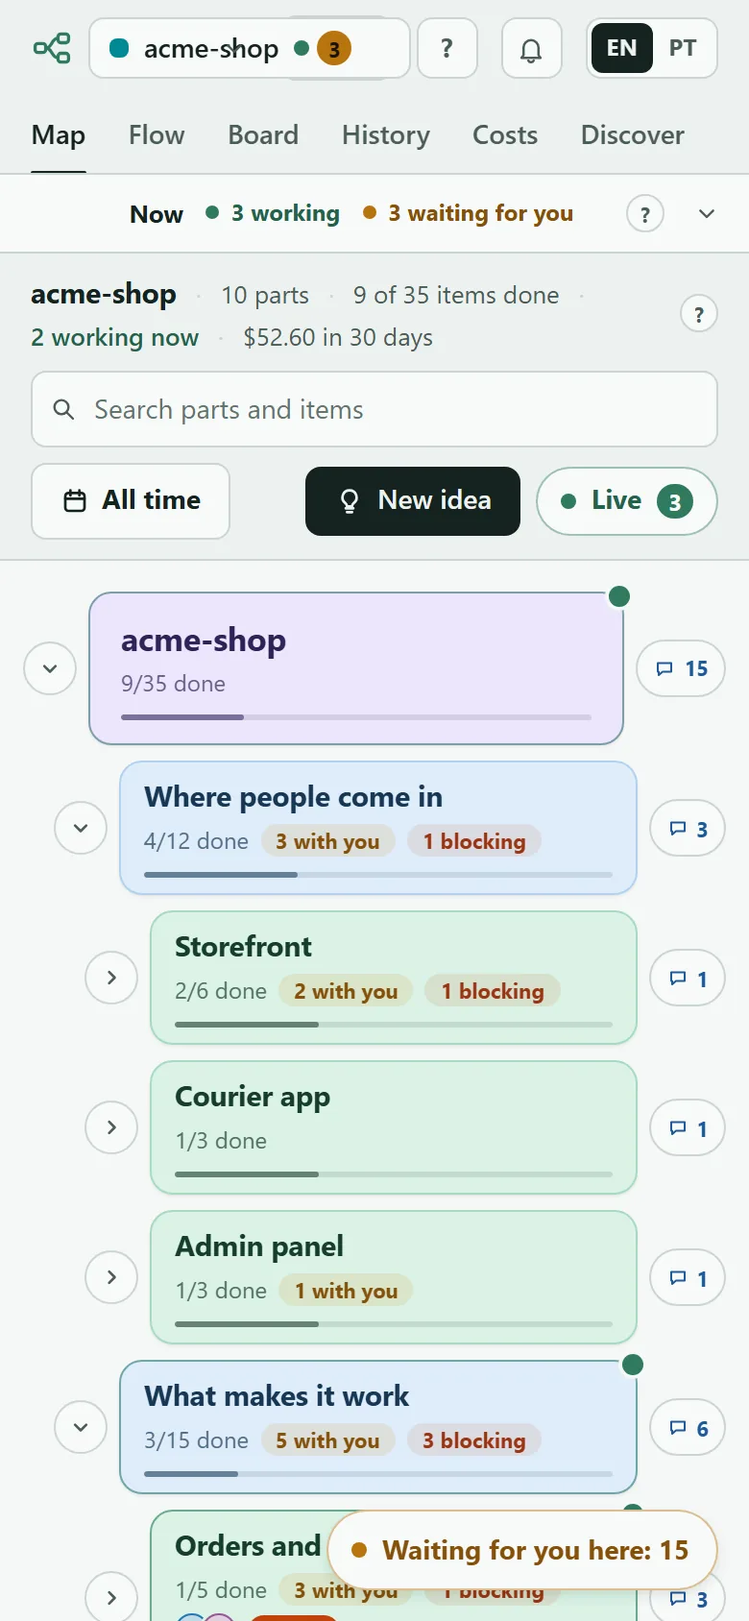
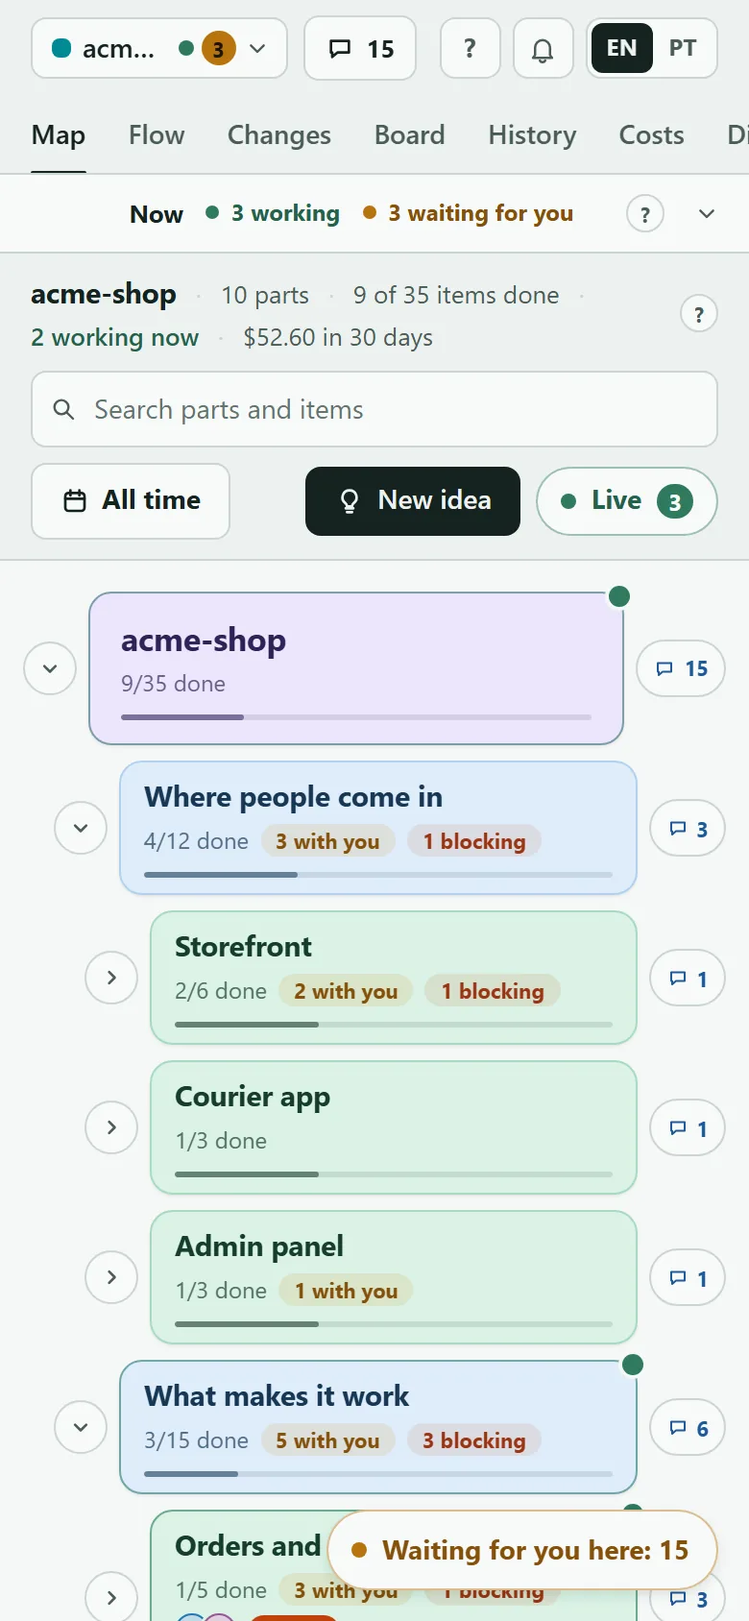
chore(release): v0.2.3
- Version 0.2.3 in package.json, plugin.json and the CHANGELOG, whose
  0.2.3 section tells in plain words what changed since 0.2.2: alerts
  across every session, conversations by project, the Now strip, the
  Claude Code-like conversation view, the fluid Flow, readable relations,
  one period for every list, signs that explain themselves, the welcome
  tour and plain words, the real footprint, the Changes tab and teams of
  helpers you can follow.
- READMEs (en, pt-BR): the Changes tab and the Flow export formats; the
  screenshots regenerated from --demo on the released screens.
- docs/architecture: items done on main now read "released in v0.2.3".

diff --git a/docs/architecture/mind-map-page.md b/docs/architecture/mind-map-page.md
@@ -70,7 +70,7 @@ Plain ES modules and a vendored `d3` for zoom and drag, no build step. Clicking 
   - Each project as a card with its colour band and name, in "This project" too; the project badge never cut off, or left out inside the project's own card, where it only repeats.
   - How to confirm it is done: screenshots at 1440 px and on a phone, in both themes: every row shows its state in a word, no text is cut off, a group title stays on top while its rows scroll, a finished conversation not yet opened stands out; a test fails if a row has no state word.
   - Done so far (2026-10-09 real-data check): the project badge keeps its size on every row and Now card (only a very long name ends in "…"), and a chat the page started reads "Map" even when the page's own record of it is gone (it said "Automation").
-  - Done on main: every row carries a state chip in colour and word (Working, Waiting for you, Finished, Closed, and "Finished, not seen yet", whose row stays highlighted until it is opened), the origin badge with icon and word, its place on the map on a line of its own and time and cost on the right; each project is a card with its colour band and name, in "This project" too, and its rows no longer repeat the project; the groups are titled sections with their own icon, colour and count, extra space between them, and a title that stays under the card's title while its rows scroll. On a computer the conversation sheet sits on the stage itself and takes its whole height beside the map tools. Checked on screenshots at 1440 px and on a phone, light and dark; `test/web-convlist.test.mjs` fails if a row has no state word.
+  - Released in v0.2.3: every row carries a state chip in colour and word (Working, Waiting for you, Finished, Closed, and "Finished, not seen yet", whose row stays highlighted until it is opened), the origin badge with icon and word, its place on the map on a line of its own and time and cost on the right; each project is a card with its colour band and name, in "This project" too, and its rows no longer repeat the project; the groups are titled sections with their own icon, colour and count, extra space between them, and a title that stays under the card's title while its rows scroll. On a computer the conversation sheet sits on the stage itself and takes its whole height beside the map tools. Checked on screenshots at 1440 px and on a phone, light and dark; `test/web-convlist.test.mjs` fails if a row has no state word.
 - [x] **Claude:** Global fixed "Now" strip across all projects `mm09`
   - Always visible on every tab, never filtered by the chosen project: switching project, tab or scrolling does not change it. Test: its content is the same whichever project is selected.
   - One card per running job in any repository: where (project › part › item), live last step, how long, model and helpers (n/total). Waiting for you comes first, in amber.
@@ -112,19 +112,19 @@ Plain ES modules and a vendored `d3` for zoom and drag, no build step. Clicking 
   - From each conversation's edited and mentioned files, plus the edits of its helpers and workflows, find every project and part it really touches (by the parts' paths): it shows in each project it touches ("born in A · working in B"), and its parts light in proportion to the files edited there.
   - Live lights the part of the file in the latest step; before work starts, the orchestration says "will touch: A, B, C". A middle level of components sits between a part and its items (level 2 of `fl09`, also on the mind map), and an item that spans parts shows in each, linked. Refined later with the census (`fd01`).
   - How to confirm it is done: a chat opened in project A that edits files of project B is listed in both with "born in A · working in B"; the parts it edited light with a share matching the files edited; Live lights the part of the file named in its last step.
-  - Done on main: the project of each edited file is the git repository it lives in (a worktree counts as its main checkout), the part is the one owning the file on that map; libraries, generated files, binaries and the Claude folder never count; a project only edited shows up though no conversation started there. The conversation stays listed (with its cost) at home and shows elsewhere under "Also working here"; its parts there carry a "This conversation · 40%" chip while it is open; a step outside its folder shows only its last folders. "Will touch", the middle level and items spanning parts moved to `mm34`.
+  - Released in v0.2.3: the project of each edited file is the git repository it lives in (a worktree counts as its main checkout), the part is the one owning the file on that map; libraries, generated files, binaries and the Claude folder never count; a project only edited shows up though no conversation started there. The conversation stays listed (with its cost) at home and shows elsewhere under "Also working here"; its parts there carry a "This conversation · 40%" chip while it is open; a step outside its folder shows only its last folders. "Will touch", the middle level and items spanning parts moved to `mm34`.
 - [x] **Claude:** Files, lines and share of the program in every box `mm25`
   - Each box shows its files, lines and % of the program, summed on the levels above; a Files panel per box lists them by folder (lines per file), split by kind (screens, server, tests, docs) and what changed in the period; the root shows "N files with no box on the map" in a strong color.
   - Base: files assigned to parts by their paths over `git ls-files`, counted by session-map itself; exact numbers from the census (`fd01`).
   - How to confirm it is done: the root's count equals the number of tracked files minus the ones left out on purpose; every layer equals the sum of its parts; the "no box" number equals the census list of files without an owner.
-  - Done on main: `server/sources/count.mjs` counts every tracked file line by line (no dependency, recounted at most every 30 s and only the files that changed) and `server/arch/sizes.mjs` gives each file one owner (the deepest path; the first part on a tie). The project panel lists the files with no box and what was left out, by reason; a part's Files tab shows lines per file and the split by kind. What changed in the period inside the Files tab moved to `mm34`; the census (`fd01`) refines the numbers.
+  - Released in v0.2.3: `server/sources/count.mjs` counts every tracked file line by line (no dependency, recounted at most every 30 s and only the files that changed) and `server/arch/sizes.mjs` gives each file one owner (the deepest path; the first part on a tie). The project panel lists the files with no box and what was left out, by reason; a part's Files tab shows lines per file and the split by kind. What changed in the period inside the Files tab moved to `mm34`; the census (`fd01`) refines the numbers.
 - [ ] **important:** The rest of the real footprint `mm34`
   - What is left of `mm24` and `mm25`: before work starts, the orchestration says "will touch: A, B, C"; a middle level of components between a part and its items (level 2 of `fl09`, also on the mind map); an item that spans parts shows in each, linked; the Files tab of a box marks what changed in the period; on a phone the open conversation covers the map, so its "This conversation · %" chips cannot be seen (show the share in the conversation's Details or on the outline before it opens).
   - How to confirm it is done: an orchestration plan lights the parts it names before the first edit; a part opens into its components with the files of each; an item whose files sit in two parts shows in both with a link; the Files tab with "last 7 days" picked marks the files changed in that week.
 - [x] **Claude:** Walk through the files of a box `mm26`
   - A file tree per box like VS Code's explorer; code colored, with line numbers and search in the file; jump to the files it uses and the files that use it (import graph); Open in VS Code at the line.
   - How to confirm it is done: open a part, expand its tree, open a file: line numbers and colors show; search finds a word; "used by" lists the files that import it; Open in VS Code lands on that line.
-  - Done on main: the Files tab of a box is a folder tree like the editor's explorer (folders first, single-folder chains on one line, open folders kept while the page lives); a file opens with the code in colors (our own small reader, no dependency), line numbers, search in the file with next and previous, the files it uses and that use it with the line of each (`server/imports.mjs` reads the import lines of JavaScript, TypeScript, CSS and HTML over the saved files) and the libraries it asks for; a click on a line picks it for Open in VS Code. Other languages, new files not yet saved and very long files go on in `mm36`.
+  - Released in v0.2.3: the Files tab of a box is a folder tree like the editor's explorer (folders first, single-folder chains on one line, open folders kept while the page lives); a file opens with the code in colors (our own small reader, no dependency), line numbers, search in the file with next and previous, the files it uses and that use it with the line of each (`server/imports.mjs` reads the import lines of JavaScript, TypeScript, CSS and HTML over the saved files) and the libraries it asks for; a click on a line picks it for Open in VS Code. Other languages, new files not yet saved and very long files go on in `mm36`.
 - [ ] **important:** The rest of the Changes tab `mm35`
   - What is left of `mm30`: an edit made by a command the conversation ran (a script, a formatter, `sed`) reads "outside the conversations": tie it to the conversation whose step ran just before the folder changed; the release is looked up for the newest 60 saved changes of a project (older ones read "Saved"); a click on a box's "+N files" chip opens the Changes tab filtered to that part; a file changed and removed before any pass of the server saw its last version (the server was off, or it all happened within seconds) says its previous content was not kept: rebuild it by replaying the conversation's edit steps after the one that wrote it.
   - How to confirm it is done: a conversation that runs a formatter shows those files under its name; a file a conversation wrote, edited and removed while the server was off shows the content it had after the last edit; a change saved months ago and released shows its version; the chip opens the tab with the part already picked.
@@ -141,10 +141,10 @@ Plain ES modules and a vendored `d3` for zoom and drag, no build step. Clicking 
   - How to confirm it is done: the tab lists every item of the part with its status; Discard without a reason is refused; ticking a destination item with a passing check turns its idea done with a link to the proof; an idea accepted 14 days ago with no movement shows a reminder.
 - [x] **Claude:** Live Changes tab: every file created, edited, deleted or renamed, with its diff `mm30`
   - From the steps in every conversation (helpers and workflows included) and the working tree: who, where (project › part › file), lines added and removed, before/after, saved → committed → released; the box lights up; deleted files keep their previous content; filters and a daily timeline.
-  - Done on main: `server/changes.mjs` reads every edit step and its result (and the commands that remove or rename files) from each conversation, its helpers and workflow agents, as the transcripts grow; `server/changes-state.mjs` places each file on its project and part, joins what the folder holds not saved yet (made by hand or another program shows as "outside the conversations") and finds the saved change and the version that carry it. The Changes tab: who (conversation or helper, with the model), where (project › part › file), lines added and removed, Not saved yet → Saved → Released, filters by project, part, conversation, kind and the period, a day-by-day line, and the before and after of each change (a removed file keeps its previous content: each pass keeps a masked copy of the files not saved yet in the session-map folder for 30 days, `server/snapshots.mjs`, so a file made by a script or by hand and then removed still shows what it had and appears as removed; the lines are masked like the chat; a secrets file never shows nor is copied). A box lights with "+N files +M lines now" for 10 minutes. What is left moved to `mm35`.
+  - Released in v0.2.3: `server/changes.mjs` reads every edit step and its result (and the commands that remove or rename files) from each conversation, its helpers and workflow agents, as the transcripts grow; `server/changes-state.mjs` places each file on its project and part, joins what the folder holds not saved yet (made by hand or another program shows as "outside the conversations") and finds the saved change and the version that carry it. The Changes tab: who (conversation or helper, with the model), where (project › part › file), lines added and removed, Not saved yet → Saved → Released, filters by project, part, conversation, kind and the period, a day-by-day line, and the before and after of each change (a removed file keeps its previous content: each pass keeps a masked copy of the files not saved yet in the session-map folder for 30 days, `server/snapshots.mjs`, so a file made by a script or by hand and then removed still shows what it had and appears as removed; the lines are masked like the chat; a secrets file never shows nor is copied). A box lights with "+N files +M lines now" for 10 minutes. What is left moved to `mm35`.
 - [x] **Claude:** Workflows you can trace: from the request to every agent and the places it touches `mm31`
   - Tree request → workflow → agents → live footprint; one colour per workflow and a dot per active agent on its box, several projects at once; trace both ways between a request and its files, commits and release.
-  - Done on main: `server/sources/claude.mjs` keeps the owner's message right before each Workflow launch (its words, time and the item codes it names, also far back in a long conversation) and reads every agent of a run with its state (working, finished, failed), phase, model, last step and the files and commits it made; the phases still to come come from the running script. `server/workflows.mjs` places each agent on the project and part of its file (any repository), finds the map item the request names and the version that carries each commit. The page (`server/web/workflows.js`) draws the tree: what you asked → the team with its phase and n/total → each helper with its state in a word, model and place → where the team worked; Live shows it for every team at work (also when its conversation finished its turn) with a link to the whole trace in the conversation's panel (files, saved changes, "Released in v1.2.0"). Each team has its own colour, kept apart from the other teams on the page and away from amber and red; every box where a helper works carries a dot per helper and "N helpers", from teams of any project. A change made by a helper names its team in Changes, and its before and after shows the request that led to it. What is left moved to `mm37`.
+  - Released in v0.2.3: `server/sources/claude.mjs` keeps the owner's message right before each Workflow launch (its words, time and the item codes it names, also far back in a long conversation) and reads every agent of a run with its state (working, finished, failed), phase, model, last step and the files and commits it made; the phases still to come come from the running script. `server/workflows.mjs` places each agent on the project and part of its file (any repository), finds the map item the request names and the version that carries each commit. The page (`server/web/workflows.js`) draws the tree: what you asked → the team with its phase and n/total → each helper with its state in a word, model and place → where the team worked; Live shows it for every team at work (also when its conversation finished its turn) with a link to the whole trace in the conversation's panel (files, saved changes, "Released in v1.2.0"). Each team has its own colour, kept apart from the other teams on the page and away from amber and red; every box where a helper works carries a dot per helper and "N helpers", from teams of any project. A change made by a helper names its team in Changes, and its before and after shows the request that led to it. What is left moved to `mm37`.
 - [ ] **important:** The rest of the traceable workflows `mm37`
   - What is left of `mm31`: a page chat opened on a map point does not yet name that point as the request's item when the owner's words carry no item code; helpers started one by one (not in a team) have no request of their own; the request is the owner's message right before the launch even when that message answers something else (seen on real data: a reply about currency shown as the request of a whole team), so also show the words the conversation gave the team; the dots show on the open project's map only, and the Now strip cards do not yet carry the team colours.
   - How to confirm it is done: a team started from a page chat on a box shows "On the map: <box>"; a single helper's change in Changes shows the request before it; a Now card shows one dot per team in its colour.

diff --git a/docs/architecture/ideas-closed.md b/docs/architecture/ideas-closed.md
@@ -141,7 +141,7 @@ Nothing here is code. The closed registry is this file, read by the map like eve
   - What it means: closing the sheet or switching project never stops a running chat; a server restart does not kill it either, or it offers to continue.
   - How to confirm it is done: start a long task, switch project and come back: it went on; restart the server mid-task: it continues, or says it was cut off and offers Continue.
   - Where it went: `pc06`.
-  - Status: done (switching and closing since v0.1.2; surviving a restart on main, ships in the release after v0.2.2).
+  - Status: done (switching and closing since v0.1.2; surviving a restart released in v0.2.3).
 
 ### The model, the orchestration and other AIs
 
@@ -177,43 +177,43 @@ Nothing here is code. The closed registry is this file, read by the map like eve
   - What it means: a conversation list beside the map, grouped by project like the project folders of Claude or ChatGPT, every row with its project, place on the map, age, cost and origin; a click opens the map down to its box and opens the conversation; a wrongly placed conversation can be moved and renamed.
   - How to confirm it is done: in "All projects" no row lacks its project; a click on a row centers its box with a pulse and opens the chat; moving a conversation to another part keeps it there after the next read.
   - Where it went: `mm28`, `mm04`, `mm21`.
-  - Status: done (the list released in v0.2.2; grouping by project, move and rename on main, ship in the release after v0.2.2).
+  - Status: done (the list released in v0.2.2; grouping by project, move and rename released in v0.2.3).
 - [x] Know when the AI is working, finished or stopped `id34`
   - Asked: 2026-10-09 12:18 — "parou de fazer as coisas?"; 2026-10-09 12:28 — "já fez tudo?"; 2026-10-09 12:35 — [I asked for the map of one of my projects and it seemed to stop halfway]; 2026-10-09 12:35 — "não da pra saber quando a IA ta trabalhando ou não, se eu quero trabalhar em varios projetos ao mesmo tempo"
   - What it means: every page chat shows one clear state (working, finished with its final summary, interrupted, waiting for permission), with a notice when it finishes; a finished chat never looks stuck.
   - How to confirm it is done: a chat that ends shows "finished" and its summary, and a notice appears; killing its process shows "interrupted" with Continue.
   - Where it went: `pc05`, `pc06`.
-  - Status: done (on main, ships in the release after v0.2.2).
+  - Status: done (released in v0.2.3).
 - [x] Notifications for work running at the same time in different repositories `id35`
   - Asked: 2026-10-09 12:36 — "precisamos de notificação dos trabalhos sendo feitos aos mesmo tempo que pode ser de repositorios diferentes"
   - What it means: every Claude session on the PC watched, whatever the project or tool; finished, waiting for you, error and branch clash become browser notifications, a desktop toast and, if switched on, a phone alert; preferences per project; similar alerts grouped.
   - How to confirm it is done: a VS Code chat in another repository finishes and a desktop toast names its project; a click opens session-map on it; turning a project's alerts off silences only that project.
   - Where it went: `wa01`, `wa02`, `wa03`, `wa04`, `wa05`.
-  - Status: done (on main, ships in the release after v0.2.2).
+  - Status: done (released in v0.2.3).
 - [x] A fixed strip on top with what is being done and where, across repositories `id36`
   - Asked: 2026-10-09 12:37 — "pode ter um painel acima metindo o que está sendo feito e onde está sendo feito"; 2026-10-09 12:38 — "mas é no topo fixo, mesmo que mude o repositorio ela acompanha os outros repositorios"
   - What it means: a "Now" strip fixed on top of every tab, never filtered by the chosen project, with one card per running job in any repository (where, last step, how long, model, helpers) and waiting ones first; badges per project in the picker.
   - How to confirm it is done: the strip's content is the same whichever project is selected; a card's click switches project and opens the point and its chat; the picker shows a pulsing dot on a project with work running.
   - Where it went: `mm09`, `mm10`.
-  - Status: done (on main, ships in the release after v0.2.2).
+  - Status: done (released in v0.2.3).
 - [x] Show where the work really happens, file by file, even from another chat `id37`
   - Asked: 2026-10-09 14:52 — "acho que as bolhas ficaram muito genericas ou ficam pontuais de mais, tipo não da pra falar que só aquilo é tudo e que aquilo realmente é tudo, ficou complexo, é como se a IA fosse mexer em uma coisa só mas mexe em mais coisas"; 2026-10-09 16:07 — "voce esta trabalhando no session map e eu nao to vendo onde"; 2026-10-09 16:08 — "eu quero isso pega real onde está sendo feito os trabalhos, mesmo em um chat diferente"
   - What it means: a conversation lights every part and project whose files it really edits (its own edits, its helpers' and its workflows'), in proportion, live as it edits; a middle level of components between a part and its items; an item that spans parts shows in each.
   - How to confirm it is done: a chat opened in project A that edits files of project B appears in both ("born in A · working in B"), and the parts it edited light in proportion to the files edited; Live lights the part of the file in its last step.
   - Where it went: `mm24`; what is left in `mm34`.
-  - Status: done (on main): listed in every project it edits, "born in A · working in B", its parts with their share, Live on the part of its latest file. "Will touch" and the middle level go on in `mm34`.
+  - Status: done (released in v0.2.3): listed in every project it edits, "born in A · working in B", its parts with their share, Live on the part of its latest file. "Will touch" and the middle level go on in `mm34`.
 - [x] Files, lines and share of the program in every box `id38`
   - Asked: 2026-10-09 16:15 — "era bom para cada balão que é colocado, ter a quatidade de arquivos que é daquele balão, quantidade de linhas, as contagens que já estamos fazendo para o programa mais colocando nos blões assim fica facil saber porque aquele balao é aquilo mesmo na arquitetura"
   - What it means: each box shows its number of files, lines and its share of the whole program, summed up the tree; a Files panel lists them by folder; the root shows how many files have no box.
   - How to confirm it is done: the root's file count equals the census total; each layer's count equals the sum of its parts; the "files with no box" number matches the census list of unowned files.
   - Where it went: `mm25`; what changed in the period in `mm34`; exact numbers from `fd01`.
-  - Status: done (on main): files, lines and share in every box, summed upward, and the files with no box on the root, counted by session-map itself; the census (`fd01`) refines the numbers.
+  - Status: done (released in v0.2.3): files, lines and share in every box, summed upward, and the files with no box on the root, counted by session-map itself; the census (`fd01`) refines the numbers.
 - [x] Walk through the files of a box `id39`
   - Asked: 2026-10-09 16:17 — "e tem como percorrer nos arquivos? seria muito bom"
   - What it means: a file tree per box like VS Code's explorer, the code colored with line numbers and search, jumps to the files it uses and that use it, and Open in VS Code at the line.
   - How to confirm it is done: open a part, expand its tree, open a file: line numbers and colors show; search finds a word; "used by" lists the files that import it; Open in VS Code lands on that line.
   - Where it went: `mm26`; what is left in `mm36`; files as dots in a part `mm15`.
-  - Status: done (on main): a folder tree per box like the editor's, the code in colors with line numbers, search in the file, the files it uses and that use it (JavaScript, TypeScript, CSS and HTML), and Open in VS Code at the picked line. Other languages in the graph go on in `mm36`.
+  - Status: done (released in v0.2.3): a folder tree per box like the editor's, the code in colors with line numbers, search in the file, the files it uses and that use it (JavaScript, TypeScript, CSS and HTML), and Open in VS Code at the picked line. Other languages in the graph go on in `mm36`.
 
 ### Files, terminal and the first use of a repository
 
@@ -246,10 +246,10 @@ Nothing here is code. The closed registry is this file, read by the map like eve
   - What it means: a live Changes tab with every file touched (created, edited, deleted, renamed), who touched it, where in the map, lines added and removed, the before/after diff, and whether it is saved, committed or released.
   - How to confirm it is done: while a chat or workflow edits a file, the file shows up in Changes within seconds with its diff and its box lights up; a deleted file keeps its previous content (the last version a pass of the server saw, masked); see `mm30`.
   - Where it went: `mm30`; what is left in `mm35`.
-  - Status: done (on main): the Changes tab lists every file created, edited, removed or renamed by the conversations, their helpers and workflow agents, and what the folder holds not saved yet, with who, where, lines, before and after, and saved → released; the boxes light with "+N files +M lines now". Edits made by a command (a script, a formatter) still read "outside the conversations": `mm35`.
+  - Status: done (released in v0.2.3): the Changes tab lists every file created, edited, removed or renamed by the conversations, their helpers and workflow agents, and what the folder holds not saved yet, with who, where, lines, before and after, and saved → released; the boxes light with "+N files +M lines now". Edits made by a command (a script, a formatter) still read "outside the conversations": `mm35`.
 - [x] See where each workflow is working and which request started it, several places at once `id69`
   - Asked: 2026-10-09 16:47 — "quero ver onde os workflow estão trabalhando onde pedi, porque sei que pode ser em varios locais ao mesmo tempo"
   - What it means: a tree request → workflow → agents → live footprint, one colour per workflow with a dot per active agent on the boxes it touches (several projects at once), and tracing both ways between a request and the files, commits and release it produced.
   - How to confirm it is done: with a workflow running, every active agent shows as a dot on the right box with its last step, and clicking a changed file shows the request that caused it; see `mm31`.
   - Where it went: `mm31`; what is left in `mm37`.
-  - Status: done (on main): each team of helpers shows as a tree from what was asked to every helper with its state, model and place; each team has its own colour with a dot per helper at work on the boxes it touches, in any project; the conversation's panel lists the files, saved changes and version of each helper, and a changed file in Changes shows the request that led to it. A page chat's map point as the request, single helpers and team colours on the Now cards go on in `mm37`.
+  - Status: done (released in v0.2.3): each team of helpers shows as a tree from what was asked to every helper with its state, model and place; each team has its own colour with a dot per helper at work on the boxes it touches, in any project; the conversation's panel lists the files, saved changes and version of each helper, and a changed file in Changes shows the request that led to it. A page chat's map point as the request, single helpers and team colours on the Now cards go on in `mm37`.

diff --git a/CHANGELOG.md b/CHANGELOG.md
@@ -1,5 +1,54 @@
 # Changelog
 
+## 0.2.3
+
+session-map now keeps an eye on every conversation for you, shows exactly what each one changed, and reads in plain
+words from the first visit.
+
+- New: alerts. The server looks at every conversation on the PC every 10 seconds, page open or not, and tells you
+  when one finishes, waits for you (a question, a permission), stops in the middle or fails, or when two lines of
+  work start to clash. They arrive as a desktop notification (on by default, a click opens the conversation), in
+  the page with a bell to pick what you want (browser, sound, phone through ntfy, per project), and in the tab title.
+  A page chat always shows one clear state: working, waiting for permission, finished, interrupted or error.
+- New: the conversation list reads like project folders. "All projects" shows one folder per project, with the
+  orchestration chat on top, then Working now, Waiting for you, Today, Yesterday, Last 7 days and Older. Every row
+  has a state chip, a badge for where it runs (VS Code, terminal, the Claude desktop app, phone through Remote
+  Control) and its place on the map. A "..." button moves or renames a conversation, and your choice wins over the
+  automatic one. The project picker shows each project's color, what works there and what waits.
+- New: the Now strip, fixed under the top bar on every tab, with one card per job across all projects: waiting for
+  you first, then working, then finished and not seen yet.
+- New: every conversation reads like Claude Code: messages with their time, thinking, each step with what went in and
+  came out, edits as before and after, the task list, questions and answers, images and helper agents. Search, a jump
+  list by day, and a live mirror of a conversation still running elsewhere. The composer takes images, `@` files,
+  `/` skills, Esc to stop and arrow up to recall the last message.
+- New: the Flow tab opens on this PC without the key, shows an automatic draft when the README has no diagram (with
+  Improve with the AI and Save to project), and exports the drawing as SVG, PNG, Markdown or `.mmd`.
+- New: relations you can read: zoom, a list sorted by strength, and a panel with every reason and its evidence.
+- New: one period for What changed, History, Costs and the activity lists, like a bank statement: Today, 7 to 90
+  days, this month, last month or your own dates on a calendar.
+- New: signs that explain themselves. Every sign says what it is, why it is happening and what to do now, with the
+  button that does it (a clash between two lines of work can be resolved with the AI, which joins nothing before your
+  OK). A part's details are split into Summary, Tasks, Conversations, Changes and Files, each with its own color.
+- New: a welcome tour of five steps, a "?" next to every area, a help menu with a glossary and a "Show technical
+  words" switch; plain words by default in English and Portuguese; friendly empty screens; and DESIGN.md, the visual
+  system the page follows.
+- New: the real footprint of each conversation. It shows on every project and part whose files it edited, its helpers
+  included ("born in X, working in Y"). Every box counts its files and lines, the project lists the files with no box,
+  and the Files tab is a folder tree whose files open with colors, line numbers, search and the files they use.
+- New: the Changes tab. Every file created, edited, removed or renamed by your conversations and their helpers shows
+  up within seconds, with who did it, where, and whether it is not saved yet, saved or released; filters, a
+  day-by-day line and the before and after of each change. A removed file keeps what it had.
+- New: teams of helpers you can follow: what you asked, the team, each helper with its state and model, and where it
+  worked, in Live and in the conversation's panel, with a dot on every box a helper is touching.
+- Security: secrets are masked in more places: keys with a prefix in `.env` files (`DB_PASSWORD`, `JWT_SECRET`...),
+  values under a secret's name, passwords inside links, and every before and after in the Changes tab. Reading an
+  archived conversation now needs the key. A path written like a network share is never looked up, so Windows never
+  sends your sign-in to another machine.
+- Fixed: after a restart the page opens at once (it waited about a minute), and a long conversation no longer slows
+  the whole server down.
+- Fixed: a search or filter with no results no longer freezes the page's refresh.
+- Fixed: chats started from the map always read "Map", even when their page record is gone.
+
 ## 0.2.2
 
 Every conversation in one place, what is being worked on right now, and a say in which model does the work.

diff --git a/docs/architecture/ideas.md b/docs/architecture/ideas.md
@@ -104,7 +104,7 @@ Nothing here is code. The registry is this file, read by the map like every part
   - What it means: every message of every conversation with the same formatting as Claude Code, the time of each message, Claude's steps, questions and answers, images, helpers and costs; each conversation's origin (VS Code, terminal, map, claude.ai) shown with a badge; the same chat screen and composer as Claude Code.
   - How to confirm it is done: open a long VS Code conversation on the page and compare side by side with Claude Code: same messages in the same order, same times, same formatting; its row carries the "VS Code" badge.
   - Where it went: `mm22`, `mm23`, `mm04`, `mm33`; claude.ai conversations `rd04`.
-  - Status: in progress (`mm22`, reading every conversation like Claude Code with the full composer, and `mm33`, the list that shows at a glance where each chat comes from and what it is doing, are done on main; `mm23` is open; `rd04` waits for the owner's OK).
+  - Status: in progress (`mm22`, reading every conversation like Claude Code with the full composer, and `mm33`, the list that shows at a glance where each chat comes from and what it is doing, are released in v0.2.3; `mm23` is open; `rd04` waits for the owner's OK).
 
 ### Files, terminal and the first use of a repository
 
@@ -191,13 +191,13 @@ Nothing here is code. The registry is this file, read by the map like every part
   - What it means: panels split into blocks by kind (tasks, chats, lines of work, what changed, files), each with its color, icon and where its data comes from; one visual system for the whole program written in `DESIGN.md`; screenshots approved by the owner before publishing.
   - How to confirm it is done: a part's panel shows separate blocks with their own title and "comes from"; `DESIGN.md` exists with tokens and components; the owner approved the screenshots of the release.
   - Where it went: `mm07`, `mm08`, `mm33`.
-  - Status: in progress (`mm07`, `mm08` and the conversation list's obvious divisions `mm33` are done on main; the owner has not yet approved the screenshots).
+  - Status: in progress (`mm07`, `mm08` and the conversation list's obvious divisions `mm33` are released in v0.2.3, with the screenshots approved by the owner).
 - [ ] **in progress:** A readable chat: formatting and an input box that grows `id56`
   - Asked: 2026-10-09 16:04 — "nossa chat nao pega formatação nenhuma de nada ta cru, e também a onde escreve ele não vai crescendo de acordo com o que vai digitando ele é grande de mais e acaba que tem muita informação no chat e fica pouca coisa para a parte do dialogo a gente podia reever como melhorar e refinar isso"
   - What it means: replies rendered as markdown like Claude Code (headings, lists, tables, code with copy, links); the input starts at one line and grows to about 40% of the panel; a compact header; controls that fold away, so most of the height is dialogue.
   - How to confirm it is done: a reply with a table and a code block renders both; the empty input is one line high and grows while typing, then scrolls; the header takes one line.
   - Where it went: `mm08`, `mm22`, `mm23`.
-  - Status: in progress (markdown replies, the growing input box and the folding controls are done on main with `mm22` and `mm08`; the header shipped as two short lines, and the one-line header is open in `mm23`).
+  - Status: in progress (markdown replies, the growing input box and the folding controls are released in v0.2.3 with `mm22` and `mm08`; the header shipped as two short lines, and the one-line header is open in `mm23`).
 
 ### Reading every detail
 

diff --git a/README.pt-BR.md b/README.pt-BR.md
@@ -87,7 +87,7 @@ Os nomes de seção em português e em inglês funcionam. A skill `architecture`
 
 A aba **Fluxo** desenha o diagrama mermaid do README da pasta com uma cópia fixa do mermaid que vem no plugin (sem CDN, nível de segurança estrito). Cada caixa que é uma parte ganha a cor da situação dela (conversa trabalhando ali, em andamento, falta fazer, tudo feito), com marcas para o que trava algo e o que espera uma pessoa, e um clique abre o chat da parte ao lado do desenho. Quando o README não tem setas próprias, as relações que o session-map encontrou entram como setas tracejadas.
 
-- **Exportar:** Copiar ou Baixar `.mmd`.
+- **Exportar:** Copiar, ou salvar o desenho como imagem SVG ou PNG, como página Markdown com o desenho dentro, ou como texto `.mmd`.
 - **Importar:** cole um desenho ou escolha um arquivo, veja o que muda (partes novas e o arquivo de cada uma, camadas, mudanças de camada, partes fora do desenho, setas) e confirme. Só o bloco mermaid do README e um arquivo-esqueleto por parte nova são gravados; nada é apagado, e cada aplicação vai para o `actions.log`. Um mapa lido do ramo principal mostra a prévia, mas não aplica.
 - **Ateliê:** um rascunho compartilhado por projeto. Um chat ao lado redesenha a cada resposta, e as ferramentas criam caixas, setas e camadas, renomeiam, movem e tiram, com editor de texto e desfazer/refazer. Nada chega ao projeto até você aplicar pela prévia da importação.
 
@@ -104,6 +104,10 @@ A coluna à esquerda do mapa lista toda conversa do projeto aberto dos últimos 
 ### Ao vivo
 
 O botão **Ao vivo** do mapa conta as conversas trabalhando agora, em todos os projetos, e abre **Trabalhando agora**: um cartão por conversa, agrupado por projeto, com o caminho dela no mapa, os últimos passos (o mais novo primeiro), os workflows com feitos/total e os agentes ajudantes ainda trabalhando com o modelo de cada um, e **Mostrar no mapa** / **Abrir conversa**. Ele se atualiza a cada 5 segundos. No próprio mapa, o caminho do projeto até a caixa em que se trabalha acende em verde, e uma legenda embaixo dessa caixa diz o último passo. Um agente de workflow parado há 30 minutos sai da lista, para um trabalho interrompido não ficar "trabalhando" para sempre.
+
+### Aba Mudanças
+
+A aba **Mudanças** lista, na hora, cada arquivo que as suas conversas e os ajudantes delas criaram, editaram, apagaram ou renomearam, neste projeto ou em todos. Filtre por parte, por quem fez (uma conversa, um ajudante de uma equipe ou fora das conversas) e por tipo, ou escolha um dia. Cada mudança diz se ainda não foi salva, se foi salva ou publicada, e um clique mostra o antes e o depois, o que você pediu e levou a ela, e **Abrir o arquivo** / **Abrir a conversa**. Arquivos que guardam senhas ou chaves nunca mostram o conteúdo.
 
 ### Comandos
 

diff --git a/README.md b/README.md
@@ -87,7 +87,7 @@ English and Portuguese section names both work. The `architecture` skill teaches
 
 The **Flow** tab draws the folder README's mermaid diagram with a pinned copy of mermaid shipped with the plugin (no CDN, strict security level). Each box that is a part takes the color of its situation (a chat working there, in progress, still to do, all done), with marks for blockers and items waiting on a person, and a click opens that part's chat beside the drawing. When the README has no arrows of its own, the relations session-map found fill in as dotted arrows.
 
-- **Export:** Copy or Download `.mmd`.
+- **Export:** Copy, or save the drawing as an SVG or PNG image, as a Markdown page with the drawing inside, or as `.mmd` text.
 - **Import:** paste a drawing or pick a file, see what it changes (new parts and the file each gets, layers, moves, parts left out, arrows), then confirm. Only the README's mermaid block and a skeleton file per new part are written; nothing is deleted, and each apply goes to `actions.log`. A map read from the main branch can be previewed but not applied.
 - **Workshop:** a shared draft per project. A side chat redraws it with every reply, and the tools add boxes, arrows and layers, rename, move and remove, with a text editor and undo/redo. Nothing reaches the project until you apply it through the import preview.
 
@@ -104,6 +104,10 @@ The column on the left of the map lists every conversation of the open project f
 ### Live
 
 The **Live** button on the map counts the conversations working now, in every project, and opens **Working now**: one card per conversation, grouped by project, with its way down the map, its latest steps (the newest first), its workflows with done/total and the helper agents still running with their model, and **Show on map** / **Open conversation**. It updates every 5 seconds. On the map itself the way from the project to the box being worked on lights up in green, and a caption under that box names the latest step. A workflow agent that has not moved for 30 minutes is left out, so an interrupted run does not stay "working" for ever.
+
+### Changes tab
+
+The **Changes** tab lists, as it happens, every file your conversations and their helpers created, edited, removed or renamed, in this project or in all of them. Filter by part, by who did it (a conversation, a helper of a team, or outside the conversations) and by kind, or pick a day. Each change says whether it is not saved yet, saved or released, and a click shows its before and after, what you asked that led to it, and **Open the file** / **Open the conversation**. Files that hold passwords or keys never show their content.
 
 ### Commands
 
